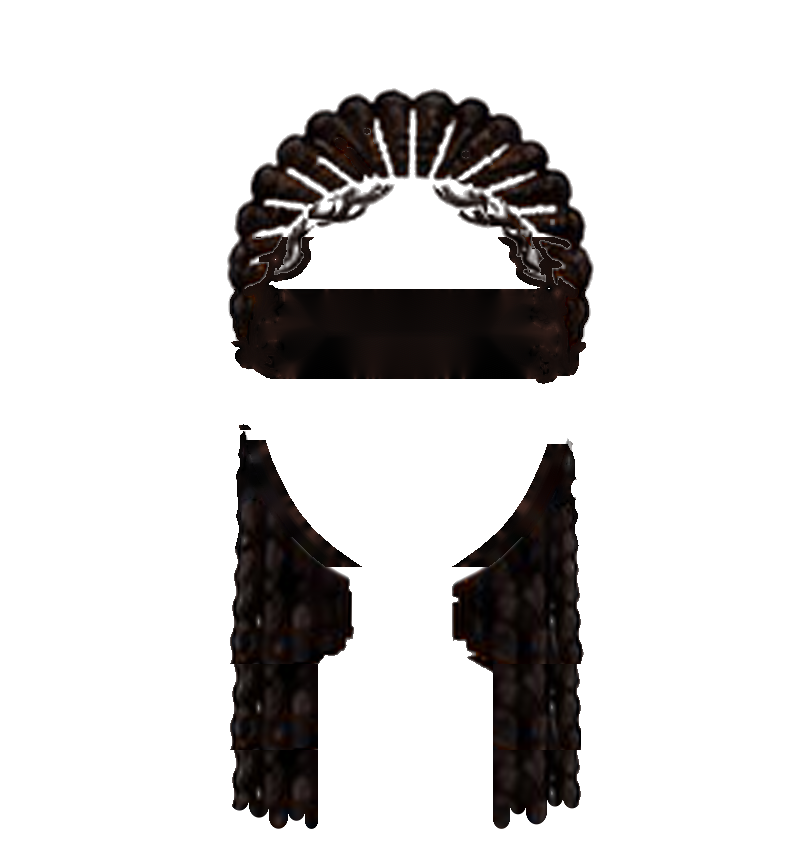
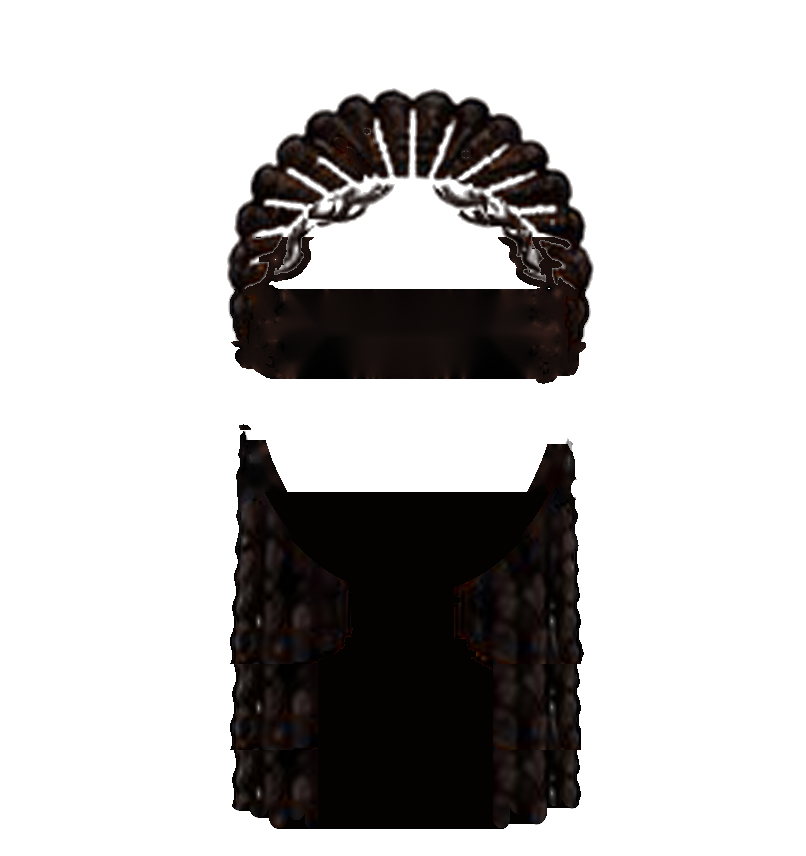
Cornrows : derrière le cou, cheveux dans l'ombre (plus de trou entre les tresses et le cou)
Claude-Session: https://claude.ai/code/session_01RffJDTtPaeahFdiXkdY2ya

Changed region(s): [[0.3412, 0.5771, 0.6824, 0.972]]

diff --git a/tools/coiffure-depuis-planche.py b/tools/coiffure-depuis-planche.py
@@ -203,12 +203,15 @@ dos[:, :, 3] = np.where(grow & fx_ & skd, 255, dos[:, :, 3])
 # derrière le visage, le cou et les épaules (quelle que soit la forme du visage) : rangée remplie d'un bord à l'autre
 span = np.zeros((H, W), bool)
 for y in range(H):
-    if V[y] < 150 or DROIT and V[y] > 232: continue
+    if V[y] < 150 or DROIT and 232 < V[y] < 268: continue   # tresses : derrière la mâchoire, la rangée est déjà jointe
     xs2 = np.where(dos[y, :, 3] > 128)[0]
     if len(xs2) > 1 and U[xs2.min()] < 150 and U[xs2.max()] > 250: span[y, xs2.min():xs2.max() + 1] = True
 fill = span & (dos[:, :, 3] < 250)
 dos[:, :, :3] = np.where(fill[:, :, None], cv2.inpaint(dos[:, :, :3].clip(0, 255).astype(np.uint8), fill.astype(np.uint8), 9, cv2.INPAINT_TELEA), dos[:, :, :3])
 dos[fill, 3] = 255   # là où la capture montre la peau (le corps passe devant)
+if DROIT:   # derrière le cou : cheveux dans l'ombre (plus foncés), sans motif recopié
+    dk = np.percentile((dos[dos[:, :, 3] > 250][:, :3] @ [.299, .587, .114]), 15); dc = np.median(dos[(dos[:, :, 3] > 250) & ((dos[:, :, :3] @ [.299, .587, .114]) <= dk)][:, :3], 0)
+    nf = fill & (VV >= 268); dos[nf, :3] = dc
 if DROIT:   # derrière : chaque rangée de tresses rejoint la mâchoire du jeu (pas de liseré de fond entre les deux)
     GV_ = [228, 240, 250, 260, 270, 280, 290, 300, 310, 315, 400]; GW_ = [92, 88, 84.5, 80, 75, 68.6, 60.4, 49, 35, 27, 27]
     gap = np.zeros((H, W), bool)
